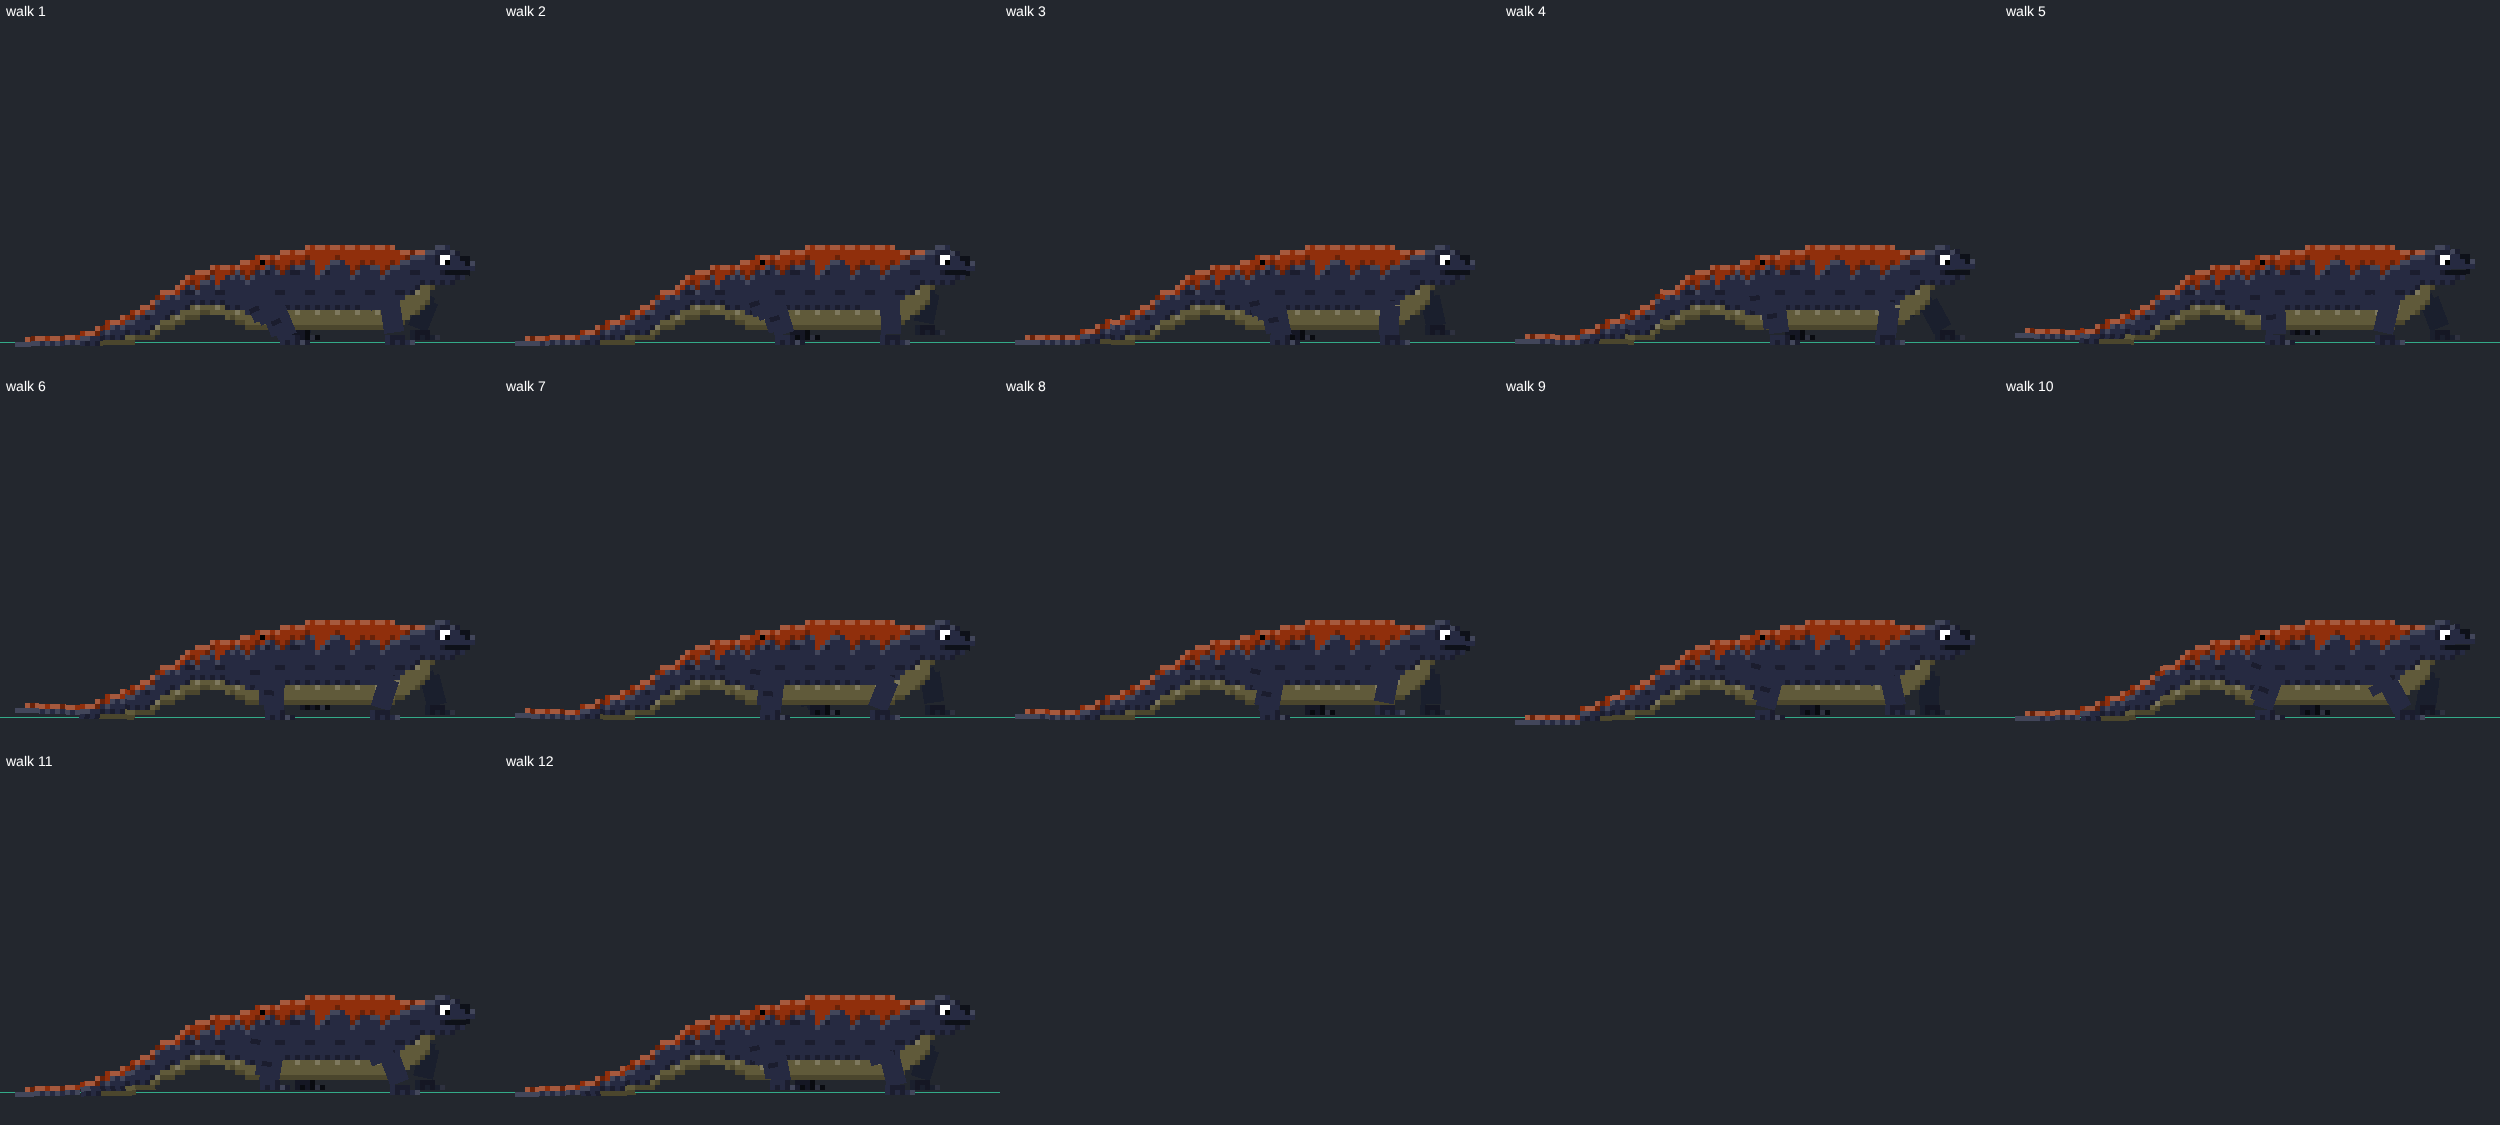
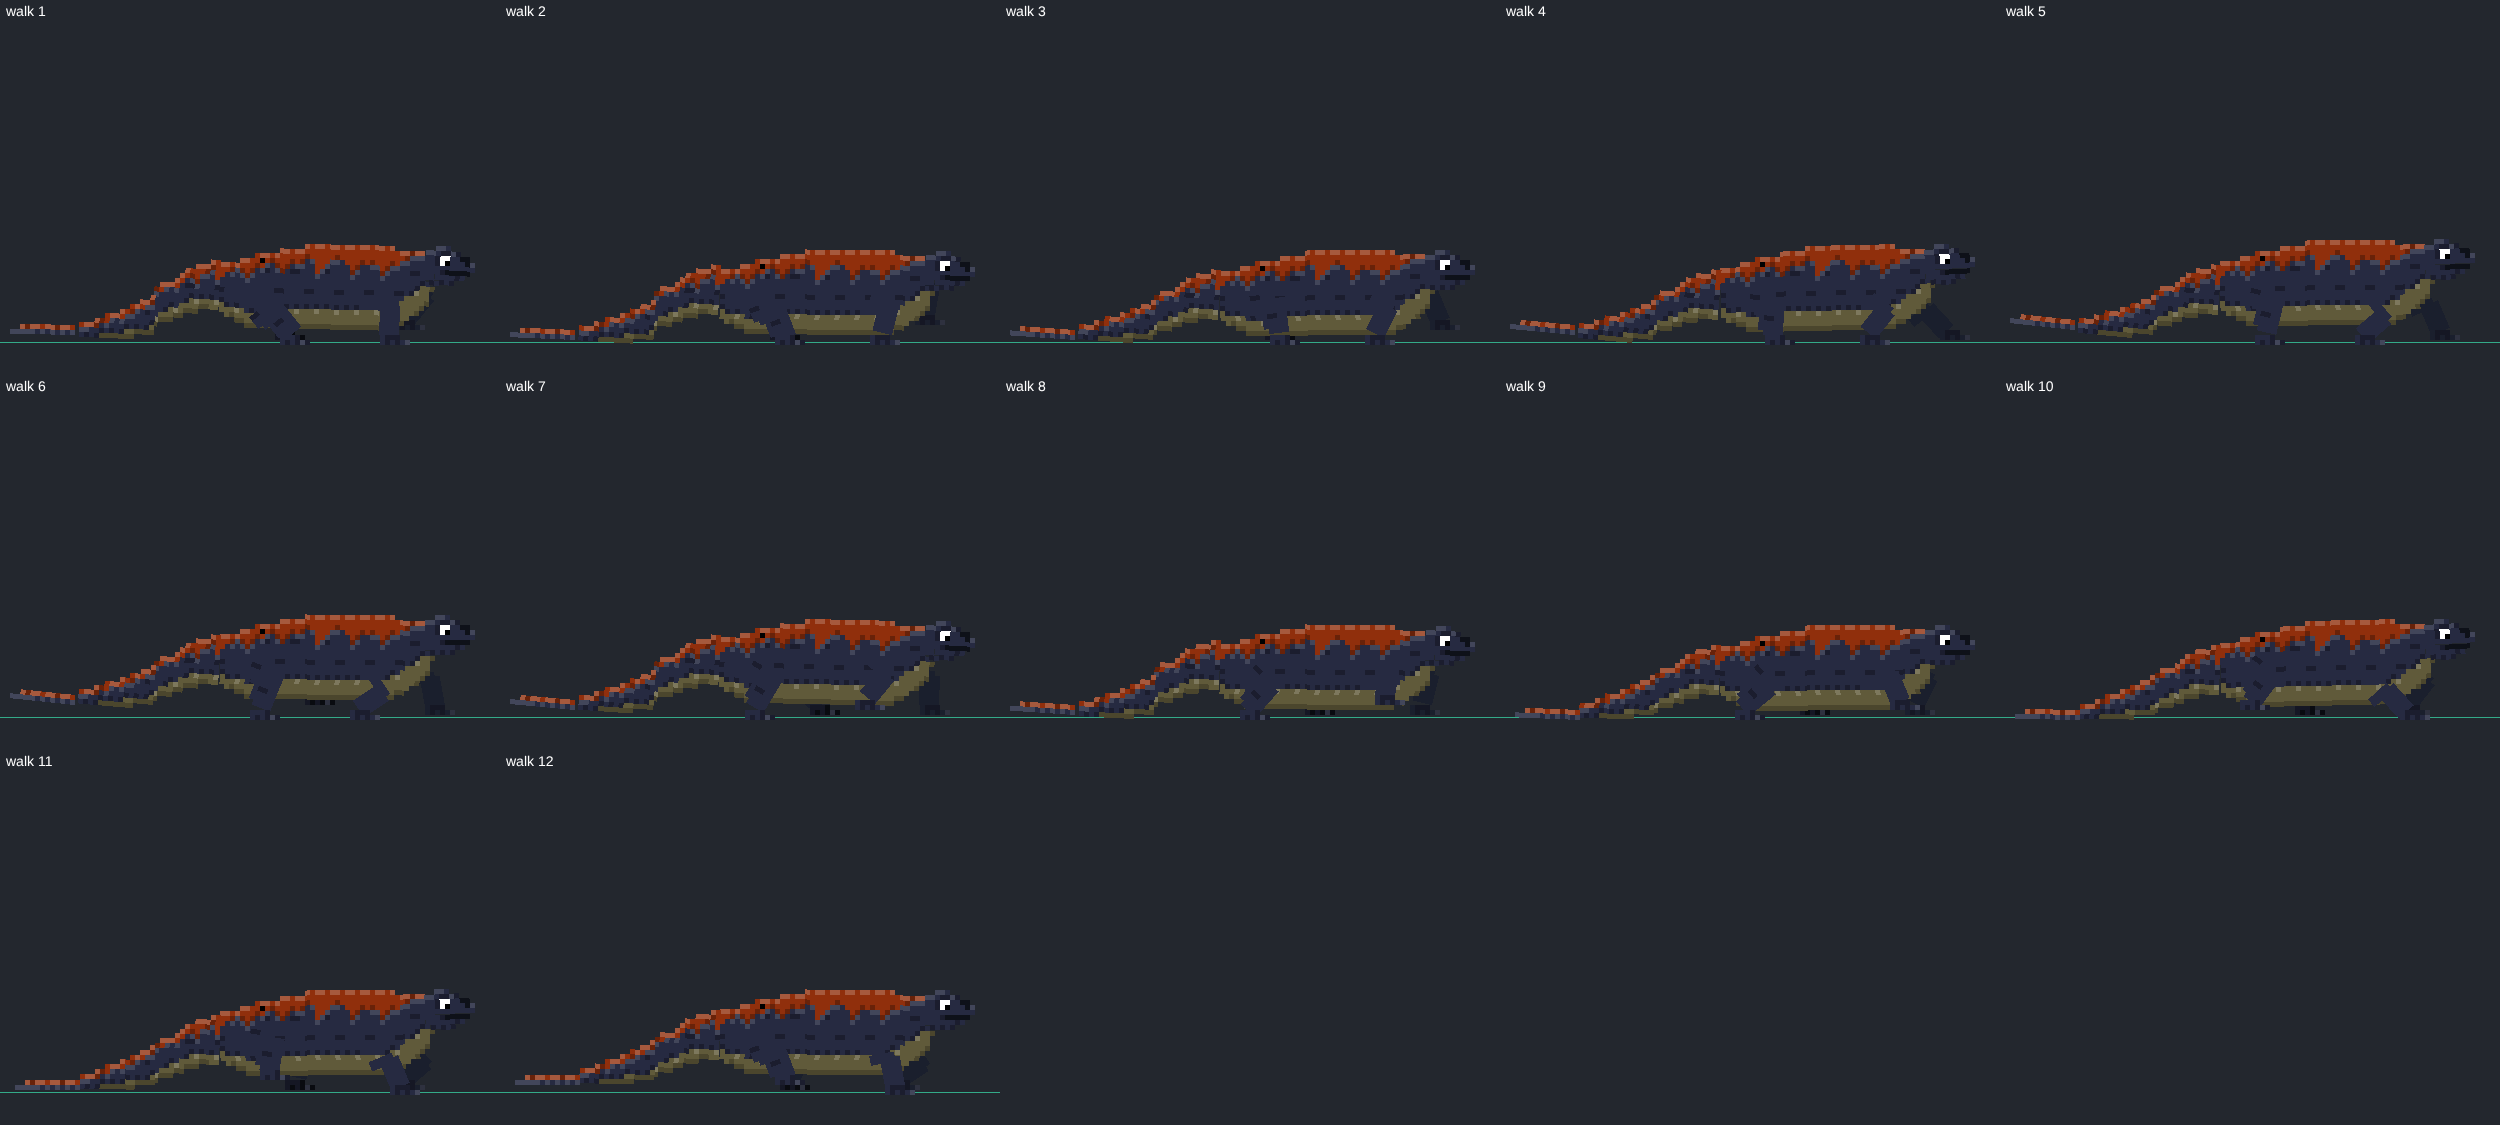
Rigger: Cotylorhynchus walk takes big lizard steps (10 px stride, 2.6 px lift, body rock, feet held through it)
Claude-Session: https://claude.ai/code/session_01LR2qDRGfgG7zv7Gz3iqJSH

diff --git a/tools/rigger/cotylorhynchus/gen-walk.py b/tools/rigger/cotylorhynchus/gen-walk.py
@@ -5,7 +5,7 @@
 # the thigh drops so the stance ankle keeps its height (the sole stays on the ground row), and the foot turns back so it stays flat.
 # The swapped head parts (`off` on the node, `v:1` in a pose) are kept: the open-eyed head is shown in every frame.
 import json, math, sys
-K = dict(N=12, fps=8, ds=.75, S=5.0, lift=1.2, bob=.4, tail=(.5, .8, 1.2), head=1.2)
+K = dict(N=12, fps=8, ds=.65, S=10.0, lift=2.6, bob=.8, pitch=1.2, tail=(1.2, 1.2, 1.2), tailUp=3.2, head=2.5, back=1.5)
 if len(sys.argv) > 3: K.update(json.loads(sys.argv[3]))
 P = json.load(open(sys.argv[1]))
 by = {n['id']: n for n in P['nodes']}
@@ -17,7 +17,7 @@ def ankle(a, b, r):   # the ankle (a, b) from the hip, turned r degrees clockwis
   c, s = math.cos(math.radians(r)), math.sin(math.radians(r))
   return a*c - b*s, a*s + b*c
 def solve(a, b, ox):   # the turn that moves the ankle ox pixels forward of rest (bisection; x falls as r grows)
-  lo, hi = -60.0, 60.0
+  lo, hi = -80.0, 80.0
   for _ in range(60):
     m = (lo + hi)/2
     if ankle(a, b, m)[0] - a > ox: lo = m
@@ -27,20 +27,26 @@ frames = []
 for i in range(K['N']):
   f, pose = i/K['N'], {}
   bob = K['bob']*math.sin(2*math.pi*2*f)        # down twice a cycle, as each hind foot takes the weight
-  pose[BODY] = {'r': 0, 'dx': 0, 'dy': rd(bob)}
+  rb = K['pitch']*math.sin(2*math.pi*(2*f + .25))   # rocks nose down as a front foot takes the weight, up as a hind one does
+  pose[BODY] = {'r': rd(rb), 'dx': 0, 'dy': rd(bob)}
   pose[HEAD] = {'r': rd(K['head']*math.sin(2*math.pi*(2*f + .15))), 'dx': 0, 'dy': 0, 'v': 1}
   pose[JAW] = {'r': 0, 'dx': 0, 'dy': 0}
   for j, t in enumerate(TAIL):                  # a wave down the tail, each piece a little later and wider
-    pose[t] = {'r': rd(K['tail'][j]*math.sin(2*math.pi*(f - .12*j))), 'dx': 0, 'dy': 0}
+    pose[t] = {'r': rd((K['tailUp'] - rb if j == 0 else 0) + K['tail'][j]*math.sin(2*math.pi*(f - .12*j))), 'dx': 0, 'dy': 0}   # the base cancels the body's rock and holds the tail up a touch, so the tip clears the ground
   for lg, ft, off in LEGS:
     a, b = by[ft]['lx'], by[ft]['ly']
     fl, lift = (f + off) % 1, 0.0
     if fl < K['ds']: ox = K['S']/2 - K['S']*fl/K['ds']
     else:
       t = (fl - K['ds'])/(1 - K['ds']); ox = -K['S']/2 + K['S']*sm(t); lift = K['lift']*math.sin(math.pi*t)
-    r = solve(a, b, ox)
-    pose[lg] = {'r': rd(r), 'dx': 0, 'dy': rd(b - ankle(a, b, r)[1] - lift - bob)}   # cancel the body bob so planted feet stay put
-    pose[ft] = {'r': rd(-r), 'dx': 0, 'dy': 0}
+    # where the ankle must be in the body's frame for the foot to sit at (rest + ox, ground - lift) in the world, given the body's bob and rock
+    hx, hy = by[lg]['lx'], by[lg]['ly']
+    wx, wy = hx + a + ox - K['back'], hy + b - lift - bob   # the stride sits a little back of the rest pose, in the leg's reach
+    c, s_ = math.cos(math.radians(-rb)), math.sin(math.radians(-rb))
+    vx, vy = wx*c - wy*s_ - hx, wx*s_ + wy*c - hy
+    r = solve(a, b, vx - a)
+    pose[lg] = {'r': rd(r), 'dx': 0, 'dy': rd(vy - ankle(a, b, r)[1])}
+    pose[ft] = {'r': rd(-r - rb), 'dx': 0, 'dy': 0}   # the foot stays flat on the ground
   frames.append(pose)
 walk = {'name': 'walk', 'fps': K['fps'], 'frames': frames}
 P['clips'] = [walk if c['name'] == 'walk' else c for c in P['clips']]
